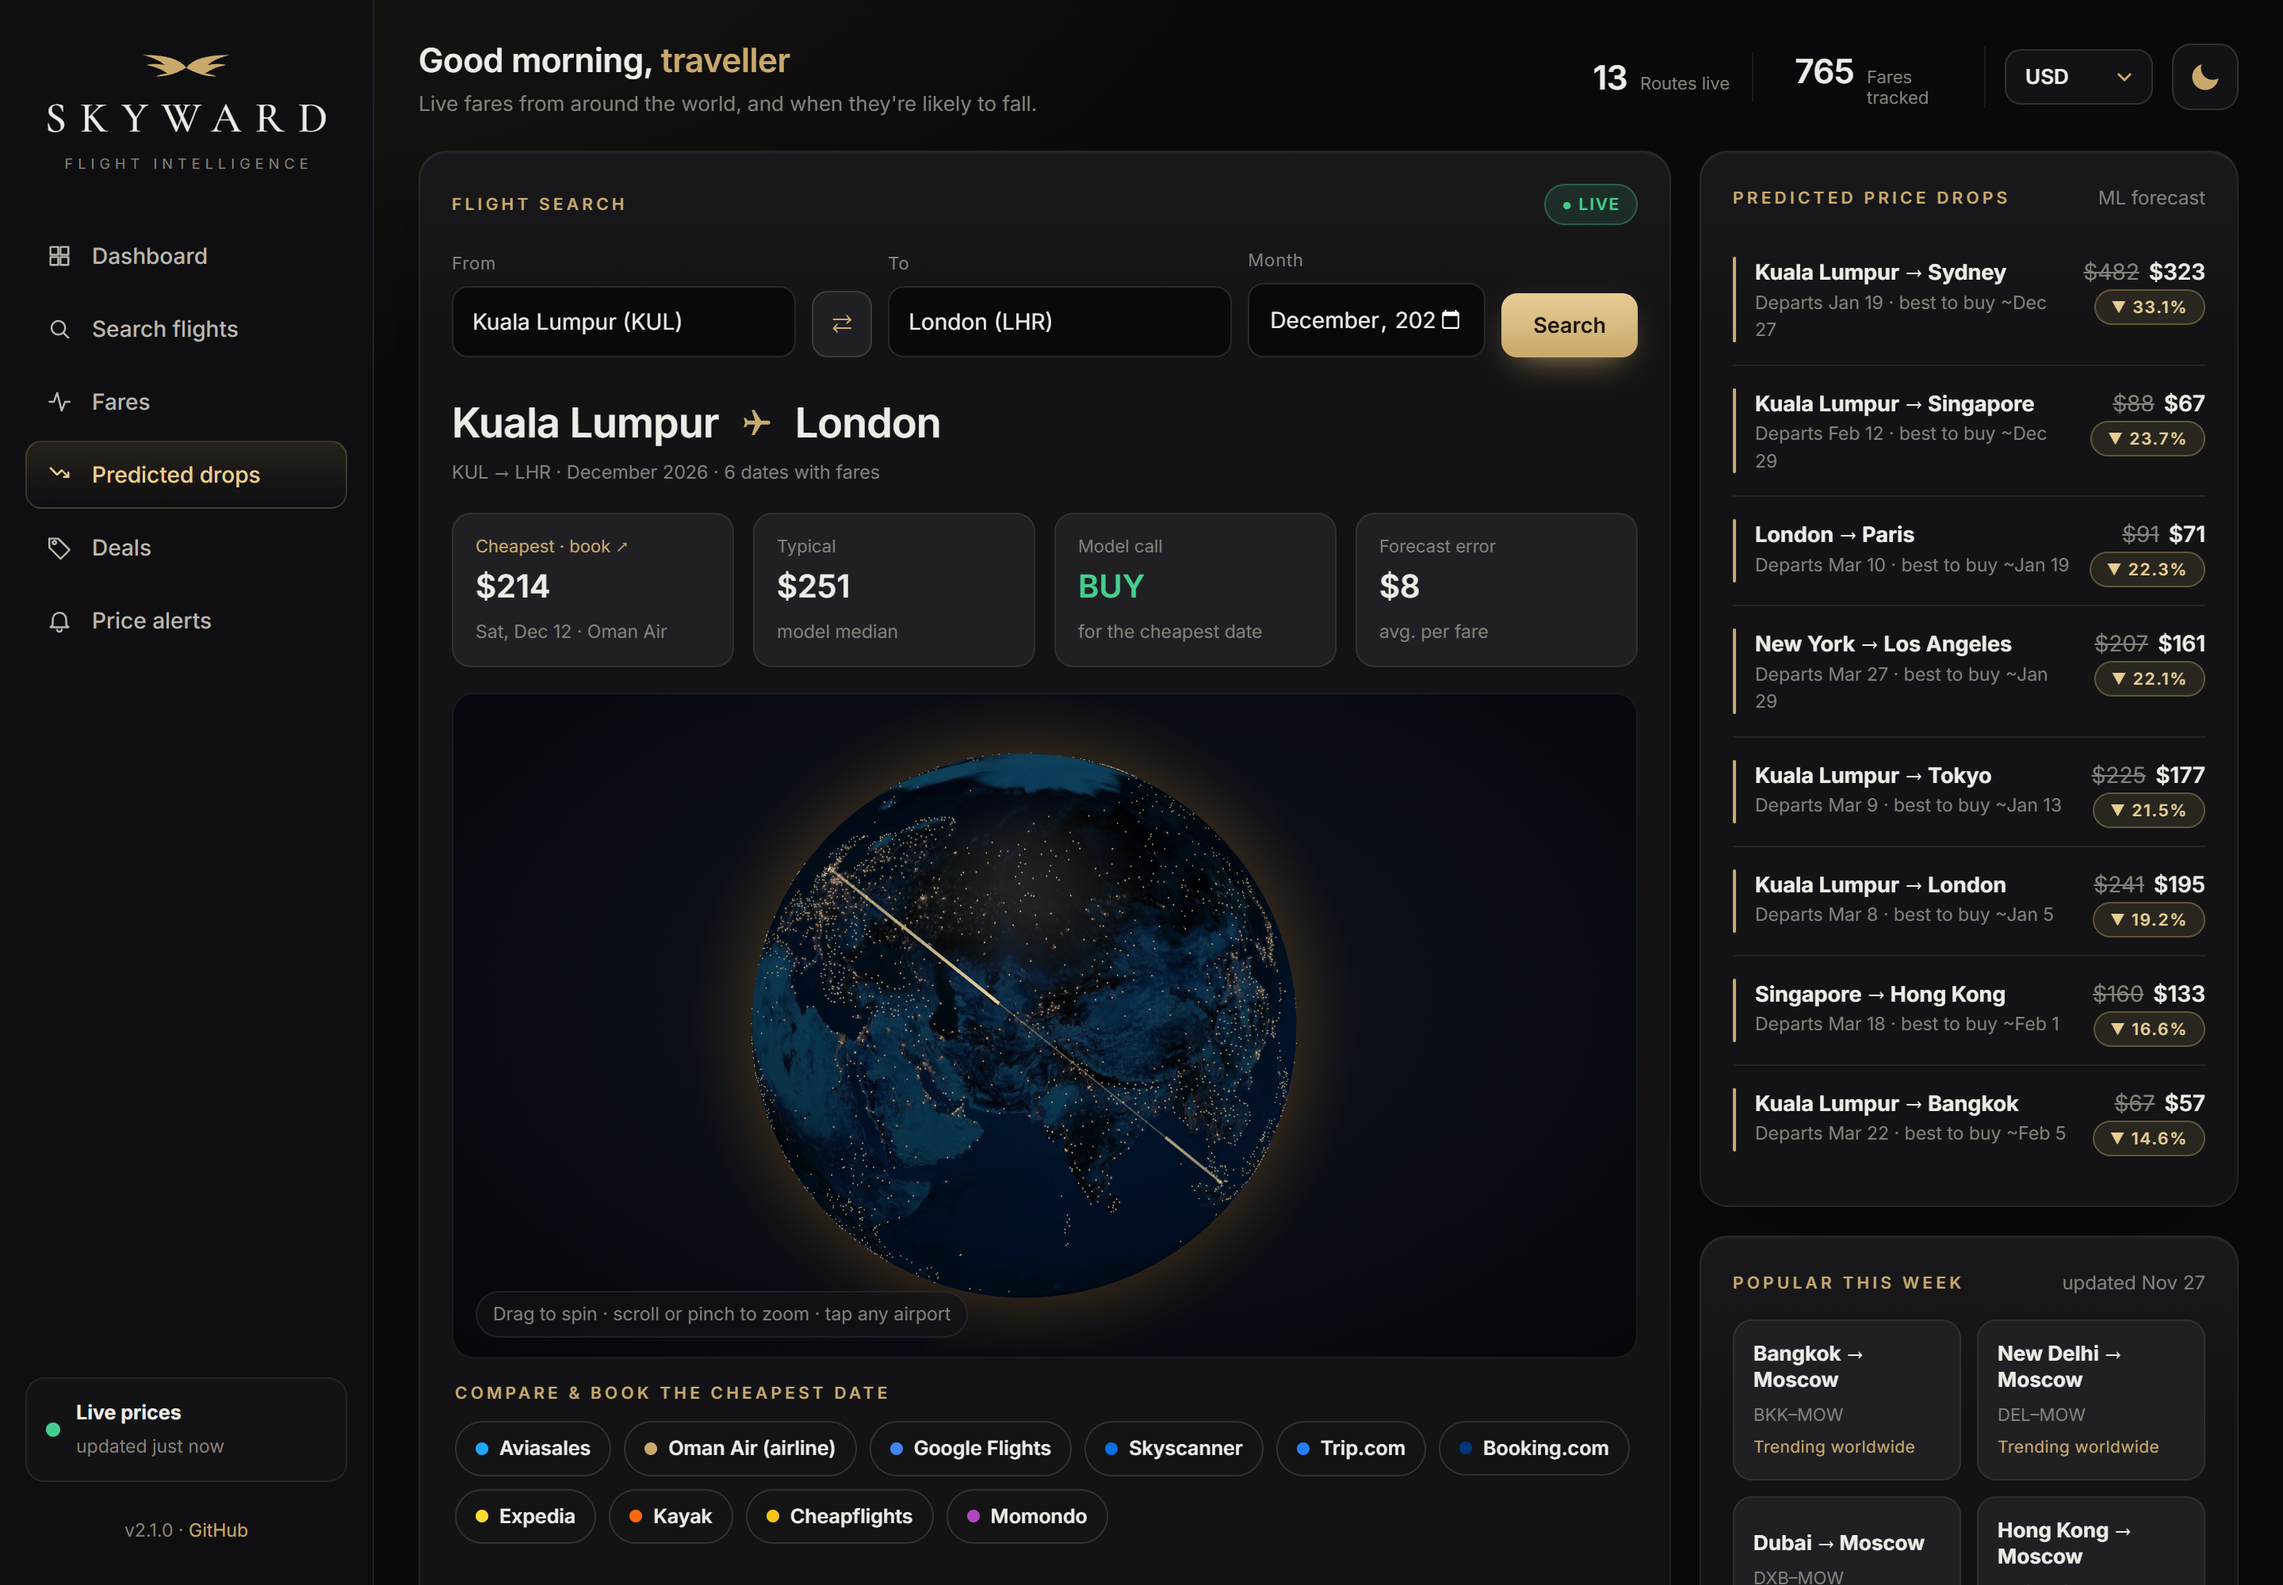
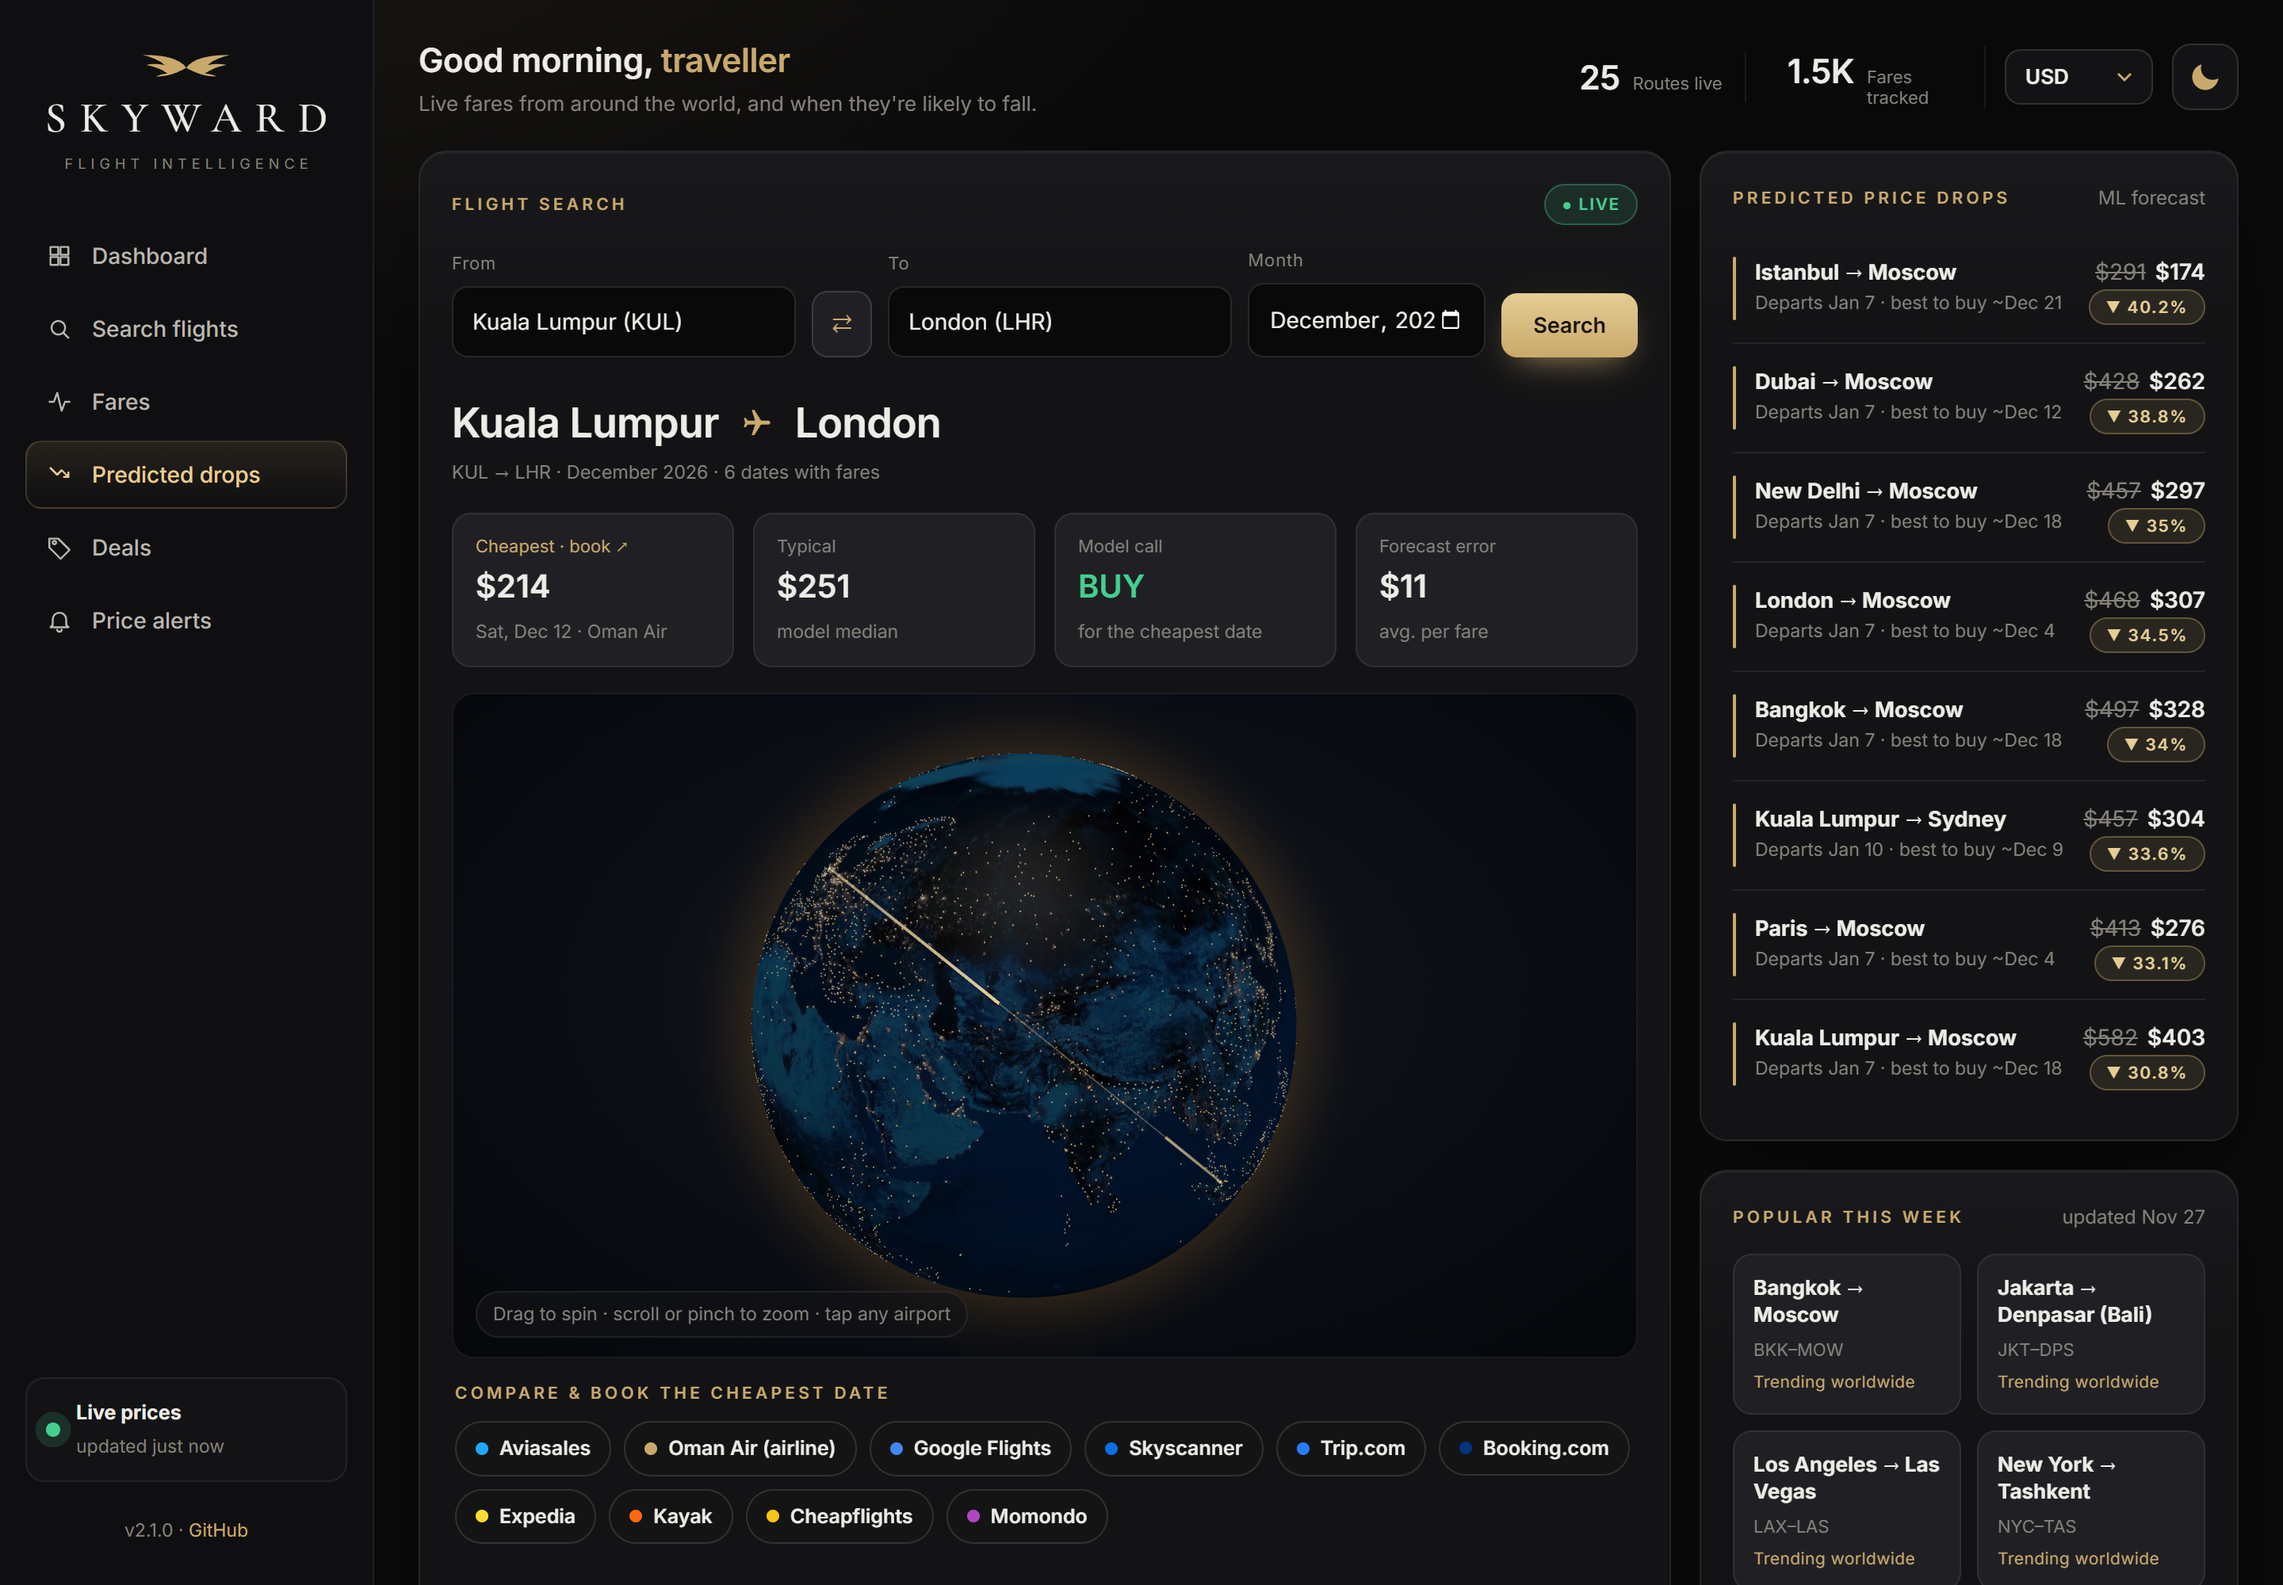
Predicted drops: one route per destination, two per origin; higher flight arc; fresh screenshots

diff --git a/frontend/index.html b/frontend/index.html
@@ -6,13 +6,13 @@
 <title>Skyward · Worldwide flight prices & forecasts</title>
 <meta name="description" content="Search flights worldwide, see live prices in your currency, compare booking sites, and let machine learning tell you when prices will drop.">
 <meta name="color-scheme" content="dark light">
-<script src="/static/theme.js?v=2.1.0"></script>
+<script src="/static/theme.js?v=2.1.0b"></script>
 <link rel="preconnect" href="https://fonts.googleapis.com">
 <link rel="preconnect" href="https://fonts.gstatic.com" crossorigin>
 <link rel="preconnect" href="https://cdn.jsdelivr.net" crossorigin>
 <link href="https://fonts.googleapis.com/css2?family=Cormorant+Garamond:wght@400;500;600&family=Inter:wght@400;500;600;700&display=swap" rel="stylesheet">
 <script src="https://cdn.jsdelivr.net/npm/chart.js@4.4.1/dist/chart.umd.js" integrity="sha256-dEAdc43T4D7l37O2hBIQ/ixOrYqWDEARykugt4qf2PM=" crossorigin="anonymous" defer></script>
-<link rel="stylesheet" href="/static/styles.css?v=2.1.0">
+<link rel="stylesheet" href="/static/styles.css?v=2.1.0b">
 </head>
 <body>
 <div class="app">
@@ -199,6 +199,6 @@
   </div>
 </div>
 <div class="toast" id="toast" role="status" aria-live="polite"></div>
-<script src="/static/app.js?v=2.1.0" defer></script>
+<script src="/static/app.js?v=2.1.0b" defer></script>
 </body>
 </html>

diff --git a/frontend/app.js b/frontend/app.js
@@ -221,7 +221,7 @@ async function initGlobe() {
     .pointsMerge(true).pointAltitude(0.003).pointRadius(0.11).pointLat("lat").pointLng("lon")
     .arcColor((a) => (a.trail ? "rgba(230,205,148,.35)" : ["rgba(230,205,148,.2)", "#f0d9a4", "rgba(230,205,148,.2)"]))
     .arcStroke((a) => (a.trail ? 0.35 : 0.8)).arcDashLength((a) => (a.trail ? 1 : 0.35)).arcDashGap((a) => (a.trail ? 0 : 0.25))
-    .arcDashAnimateTime((a) => (a.trail ? 0 : 2400)).arcAltitudeAutoScale(0.45)
+    .arcDashAnimateTime((a) => (a.trail ? 0 : 2400)).arcAltitudeAutoScale(0.6)
     .ringColor(() => (t) => `rgba(230,205,148,${1 - t})`).ringMaxRadius(3.2).ringPropagationSpeed(2).ringRepeatPeriod(1400)
     .labelLat("lat").labelLng("lon").labelText("code").labelSize(0.9).labelDotRadius(0.35)
     .labelColor(() => "#f4e3bd").labelResolution(2).labelAltitude(0.01)

diff --git a/backend/app/main.py b/backend/app/main.py
@@ -584,7 +584,11 @@ def drops(response: Response, limit: int = 12):
         df["best_day"] = [o[1] for o in outlook]
         mae = model().mae or 0
         df = df[(df["drop"] >= 0.05) & (df["price"] * df["drop"] >= mae * 0.5)]
-        df = df.sort_values("drop", ascending=False).drop_duplicates("route").head(limit)
+        df = df.sort_values("drop", ascending=False).drop_duplicates("route")
+        # variety: one route per destination and at most two per origin, so one city can't fill the list
+        df["o"], df["d"] = df["route"].str[:3], df["route"].str[4:]
+        df = df.drop_duplicates("d")
+        df = df[df.groupby("o").cumcount() < 2].head(limit)
         meta = _route_meta(df["route"].tolist())
         return [{
             **_meta_out(r.route, meta.get(r.route)),
